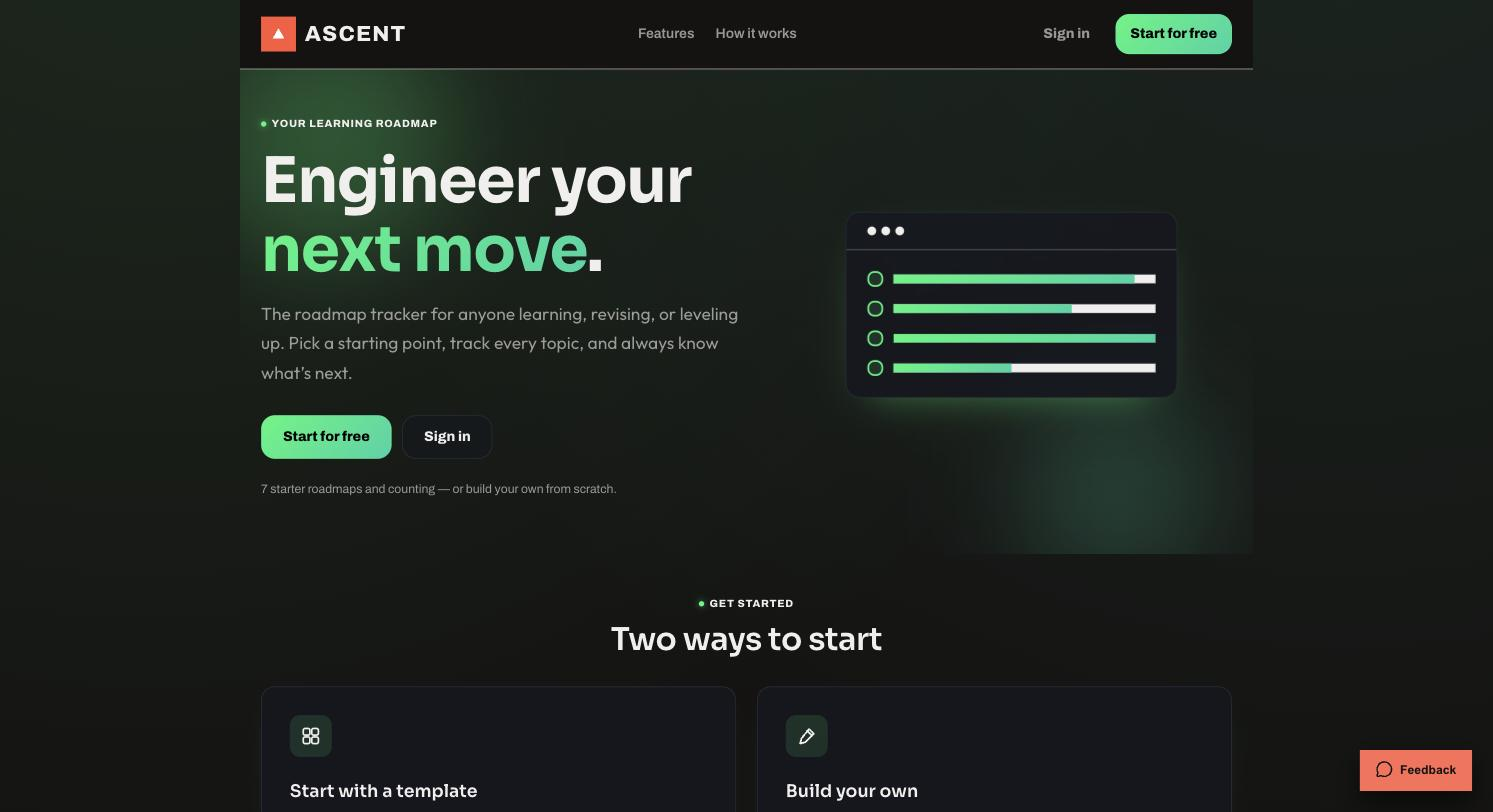
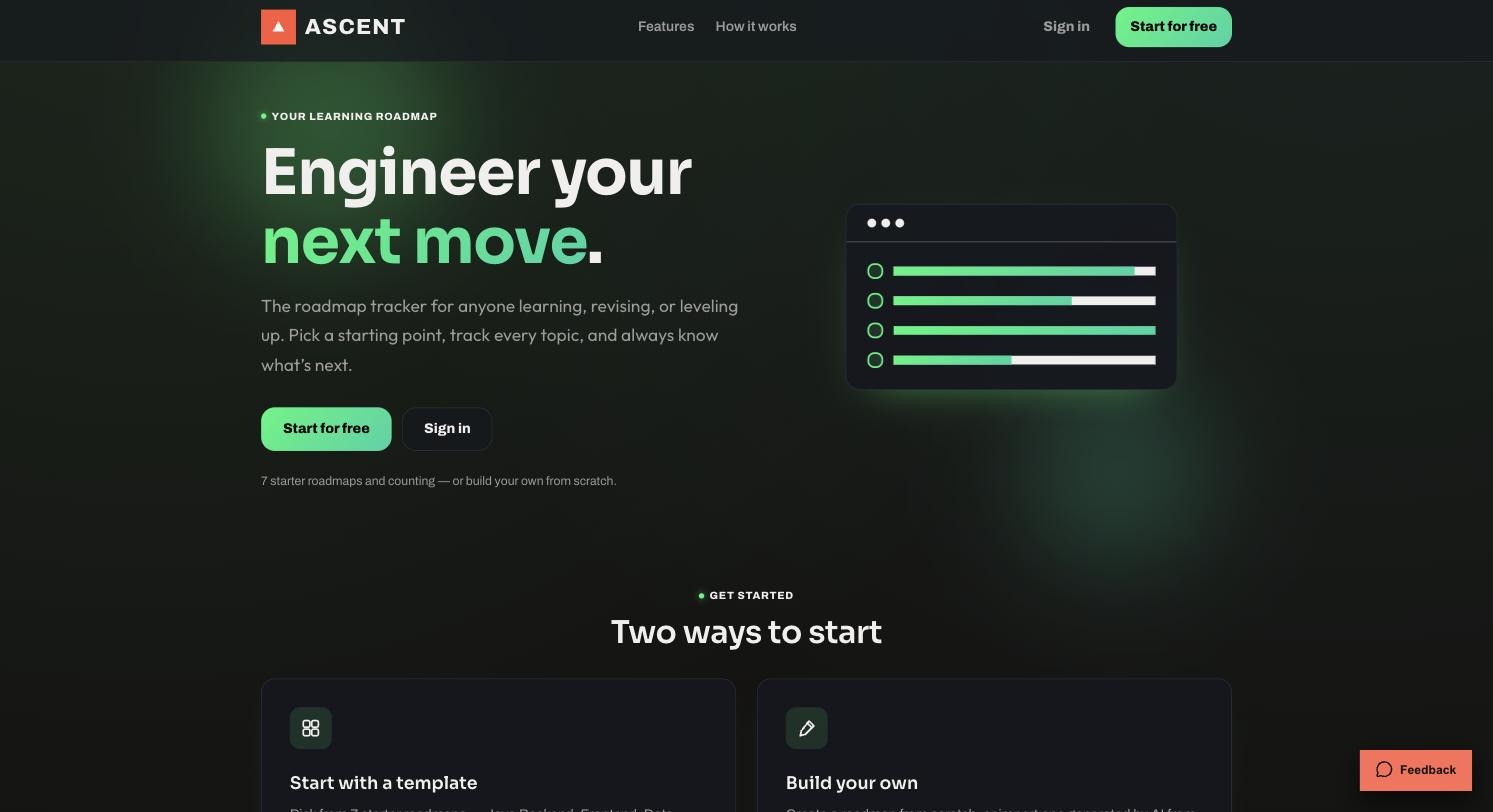
Fix visible rectangular seams on the landing hero (issue #426 follow-up)
Two related "hard rectangle" visual bugs, both found live via screenshot:

1. .landing-hero's overflow: hidden hard-clipped the blurred decorative
   orbs at the section's own rectangular edge, reading as a distinct
   box against .landing-page's ambient wash. Dropped the clip (unused
   now that .bg-grid-glow no longer renders inside it) so the orbs'
   blur bleeds smoothly into the page.
2. .landing-nav was a centered, opaque-background bar narrower than the
   viewport, reading as a floating rectangle against the wash bleeding
   around it on either side. Restructured into a full-bleed glass bar
   (.landing-nav) wrapping a centered .landing-nav-inner, matching the
   app shell topbar's own blur-xl treatment.

diff --git a/src/styles/app.css b/src/styles/app.css
@@ -4791,7 +4791,27 @@ a.brand:focus-visible { outline: 2px solid var(--color-accent); outline-offset: 
 /* issue #299 — design-system.md's flat "2px-ruled header bar" nav, replacing
    the pre-#297 floating/bordered/blurred pill-shaped bar (chip-radius, glass
    surface, backdrop-filter — none of which fit the flat Modernist identity). */
+/* v3 (issue #416 Phase 3 follow-up) — was a centered 1160px-max-width bar
+   with an opaque flat --color-bg fill, which read as a hard-edged rectangle
+   floating against .landing-page's ambient gradient wash bleeding around it
+   on either side (a real, reported visual bug, not a stylistic choice).
+   .landing-nav is now a full-bleed glass bar (matching the app-shell
+   topbar's own blur-xl treatment, design-system.md §5); .landing-nav-inner
+   carries the old centered max-width layout so the nav's *content* still
+   aligns with the hero/sections below it. */
 .landing-nav {
+  position: sticky;
+  top: 0;
+  z-index: 20;
+  background: hsl(var(--v3-surface) / 0.7);
+  -webkit-backdrop-filter: blur(20px);
+  backdrop-filter: blur(20px);
+  border-bottom: 1px solid hsl(var(--v3-divider) / 0.6);
+}
+@supports not (backdrop-filter: blur(1px)) {
+  .landing-nav { background: hsl(var(--v3-surface-elevated)); }
+}
+.landing-nav-inner {
   display: flex;
   align-items: center;
   justify-content: space-between;
@@ -4799,8 +4819,6 @@ a.brand:focus-visible { outline: 2px solid var(--color-accent); outline-offset: 
   max-width: 1160px;
   margin: 0 auto;
   padding: var(--space-4) var(--space-6);
-  border-bottom: 2px solid var(--color-divider);
-  background: var(--color-bg);
 }
 .landing-nav-links { display: flex; gap: var(--space-6); }
 .landing-nav-link {
@@ -4817,10 +4835,17 @@ a.brand:focus-visible { outline: 2px solid var(--color-accent); outline-offset: 
 .landing-nav-link:focus-visible { outline: 2px solid var(--color-accent); outline-offset: 2px; }
 .landing-nav-actions { display: flex; align-items: center; gap: var(--space-3); }
 
-/* issue #155 (ZeBeyond direction) — position:relative;overflow:hidden so the
-   .bg-grid-glow decorative layer can sit behind the copy/mock without
-   affecting layout; .landing-hero-copy/.landing-hero-mock get z-index: 1 so
-   they stay above it. */
+/* issue #155 (ZeBeyond direction) — position:relative so .landing-hero-copy/
+   .landing-hero-mock's z-index: 1 has a containing block to stack above the
+   orbs/wash behind them. v3 (issue #416 Phase 3 follow-up) — dropped the
+   overflow: hidden this rule used to carry for the (now-unused) .bg-grid-glow
+   layer: with .landing-orb-1/-2 (blurred, 60px) as children of this section,
+   that clip hard-cropped their blur at the section's own rectangular edge,
+   reading as a visible rectangular "box" seam against .landing-page's ambient
+   wash behind it — a real, reported visual bug, not a stylistic choice.
+   .landing-page's own overflow-x: hidden is still the horizontal-scroll
+   safety net; letting this section's overflow stay visible is what lets the
+   orbs' blur bleed smoothly into the page wash instead of clipping. */
 .landing-hero {
   display: grid;
   grid-template-columns: 1.05fr 0.95fr;
@@ -4830,7 +4855,6 @@ a.brand:focus-visible { outline: 2px solid var(--color-accent); outline-offset: 
   margin: 0 auto;
   padding: var(--space-12) var(--space-6) var(--space-16);
   position: relative;
-  overflow: hidden;
 }
 .landing-hero-copy { position: relative; z-index: 1; }
 .landing-hero-eyebrow { margin: 0 0 var(--space-4); }

diff --git a/src/ui/pages/landing.js b/src/ui/pages/landing.js
@@ -82,11 +82,13 @@ function buildNav() {
   stepsLink.addEventListener('click', () => scrollToSection('landing-steps'));
 
   return el('header', { className: 'landing-nav' }, [
-    el('a', { className: 'brand', href: '#/signin' }, createBrandMark()),
-    el('nav', { className: 'landing-nav-links', 'aria-label': 'Page sections' }, [featuresLink, stepsLink]),
-    el('div', { className: 'landing-nav-actions' }, [
-      el('a', { className: 'btn btn-ghost', href: '#/signin', text: 'Sign in' }),
-      el('a', { className: 'btn btn-primary', href: '#/signup', text: 'Start for free' })
+    el('div', { className: 'landing-nav-inner' }, [
+      el('a', { className: 'brand', href: '#/signin' }, createBrandMark()),
+      el('nav', { className: 'landing-nav-links', 'aria-label': 'Page sections' }, [featuresLink, stepsLink]),
+      el('div', { className: 'landing-nav-actions' }, [
+        el('a', { className: 'btn btn-ghost', href: '#/signin', text: 'Sign in' }),
+        el('a', { className: 'btn btn-primary', href: '#/signup', text: 'Start for free' })
+      ])
     ])
   ]);
 }
